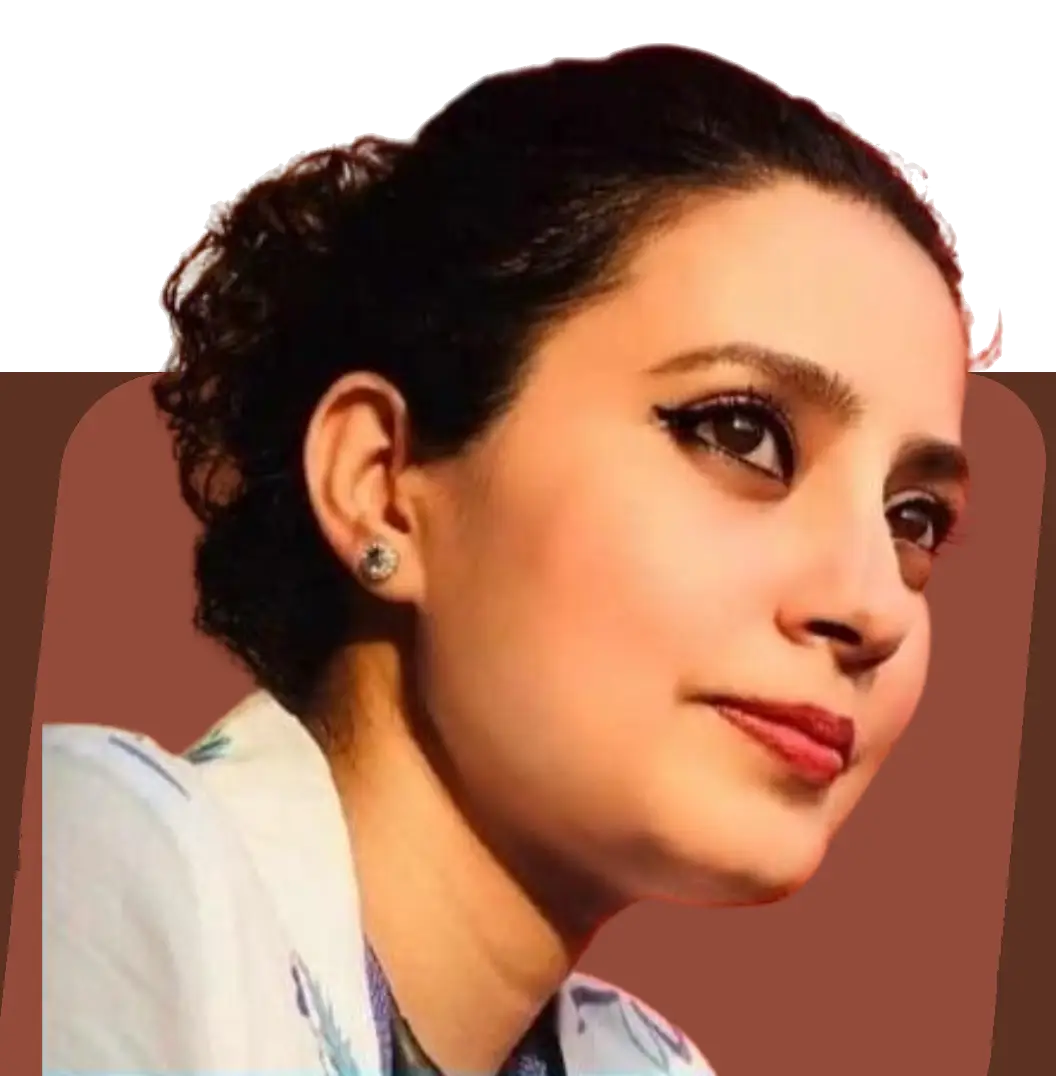
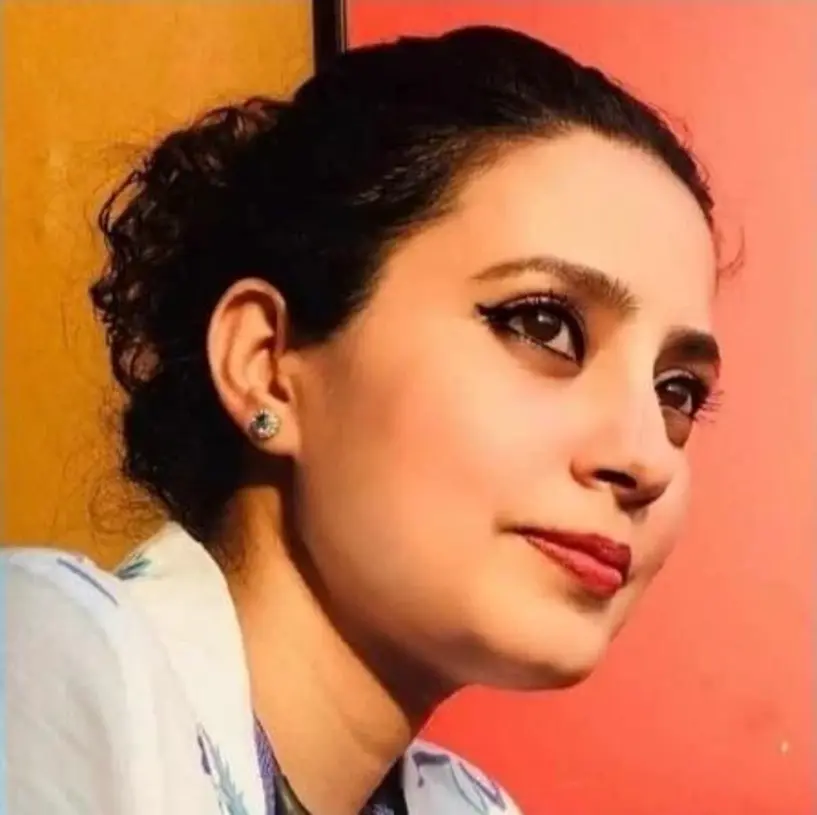
feat: change image

diff --git a/src/components/CallToAction.tsx b/src/components/CallToAction.tsx
@@ -9,14 +9,16 @@ export const CallToAction = memo(() => (
     >
         <div className="custom-container">
 
-            <figure className="cta-banner">
+            <figure className="cta-banner relative h-166 overflow-hidden bg-light-warm-beige flex items-center justify-center">
+                {/* MODIFIED: Changed from fill to intrinsic sizing with object-contain to preserve aspect ratio */}
                 <Image
                     src="/images/cta-banner.webp"
-                    width={1056}
-                    height={1076}
+                    width={800} // Add appropriate width based on your image
+                    height={400} // Add appropriate height based on your image  
                     loading="lazy"
                     alt="cta banner"
-                    className="w-fill"
+                    className="object-contain max-h-full max-w-full"
+                    priority={false}
                 />
             </figure>
 
@@ -28,7 +30,6 @@ export const CallToAction = memo(() => (
                     btnLink={"#contact"}
                     btnText={"Book appointment"}
                 />
-
             </div>
         </div>
     </section>

diff --git a/src/app/(pages)/dermatologist/_components/Dermatologist.tsx b/src/app/(pages)/dermatologist/_components/Dermatologist.tsx
@@ -173,14 +173,14 @@ export const Dermatologist = memo(() => {
                                             margin: '0'
                                         }}>
                                         B.P. KOIRALA INSTITUTE OF HEALTH SCIENCES<br />
-                                        {/* <span style={{
+                                        <span style={{
                                             fontSize: '1.2rem',
                                             opacity: '0.9',
                                             fontWeight: '500',
                                             color: 'var(--champagne-gold)'
                                         }}>
-                                            NMC No: 34407
-                                        </span> */}
+                                            NMC No: 10003
+                                        </span>
                                     </p>
                                 </div>
                             </div>

diff --git a/src/app/globals.css b/src/app/globals.css
@@ -1163,12 +1163,6 @@
   .cta { 
     padding-block: 0; 
   }
-  .cta .custom-container {
-    display: grid;
-    grid-template-columns: 1fr 1fr;
-    align-items: flex-end;
-    gap: 60px;
-  }
   .cta-banner { 
     margin-block-end: 0; 
   }
@@ -1363,6 +1357,12 @@
   .cta-content { 
     padding-block: 80px; 
   }
+  .cta .custom-container {
+    display: grid;
+    grid-template-columns: 1fr 1fr;
+    align-items: flex-end;
+    gap: 60px;
+  }
 
   /* TESTIMONIAL */
   .patient-image {
@@ -1448,8 +1448,5 @@
   /* Call To Action */
   .cta .custom-container { 
     align-items: center; 
-  }
-  .cta-banner { 
-    margin-block-start: -120px; 
   }
 }

diff --git a/src/components/Header.tsx b/src/components/Header.tsx
@@ -88,7 +88,7 @@ export const Header = memo(() => {
                             className="logo"
                         >
                             <Image
-                                width={40}
+                                width={60}
                                 height={55}
                                 src="/images/logo.webp"
                                 alt="logo"
